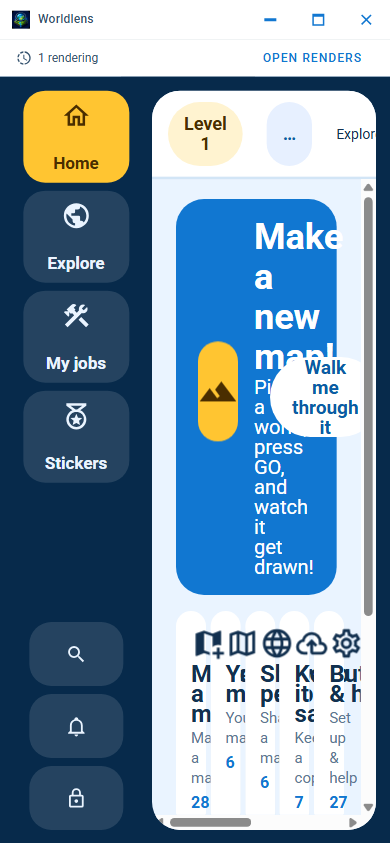
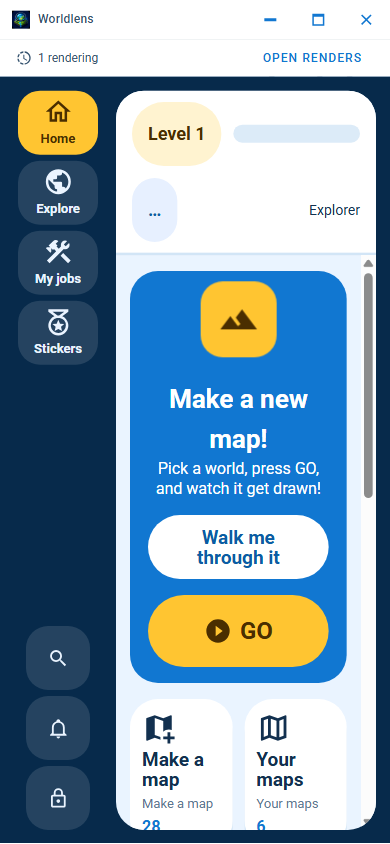
Make Kid Mode survive a phone-width window
Kid Home at 390x844 fell apart, and the picture of it going onto the README is
what made anybody look. The headline was cut off mid-word, the child's name
truncated to "Explor", the five catalogue lands crushed to roughly one character
wide each, the walkthrough button sat on top of the hero text, and the content
overflowed into a horizontal scrollbar.

Three fixed-size pieces that had never been asked to give up space, none of them
ever checked below desktop width:

  - the rail was a flat 124px at every width, which on a 390px window is a third
    of the screen before anything else gets a say;
  - the lands were `repeat(5, minmax(0, 1fr))`, so five columns shared whatever
    the rail left and each label collapsed to a letter;
  - the hero was one flex row, and squeezing its copy toward zero let the `h1`
    overflow its own box, because a long word does not break by default - that
    overflow is where the horizontal scrollbar came from;
  - `.wl-kid__name` had no CSS rule at all, so the name simply ran past the pane's
    clip edge.

The fix reuses the grown-up shell's own 860px breakpoint rather than inventing a
number: the rail narrows to 88px, the hero stacks into a column, the lands drop to
two columns, the panels collapse to one, and every label gets
`overflow-wrap: anywhere` with `overflow-x: hidden` behind it as a backstop.
Nothing goes below Kid Mode's 64px touch-target floor - the whole point of the
[…]

diff --git a/design/packages/ui/src/kid/kidNarrowWidth.test.ts b/design/packages/ui/src/kid/kidNarrowWidth.test.ts
@@ -1,0 +1,168 @@
+/**
+ * `docs/screenshots/kid-home-390.png` (Kid Home at 390 CSS px, the same compact-phone width the
+ * redesigned adult shell already proves itself at) caught Kid Mode falling apart at a width the
+ * project's own contract requires it to survive: the hero headline clipped mid-word, the child's
+ * own name in the status header truncated to "Explor", the five catalogue "lands" crushed to
+ * roughly one character wide each, the "Walk me through it" button overlapping the hero text, and
+ * a horizontal scrollbar on a body this project's own rule says must never scroll sideways.
+ *
+ * The real cause is layout, not markup or data - three fixed-size things (`KidRail.vue`'s 124px
+ * rail, `KidHome.vue`'s five-column lands grid and single-row hero, `KidShell.vue`'s 240px XP bar)
+ * that never gave up space as the window narrowed, each one degrading gracefully at every width a
+ * unit test can render but only *appearing* to, because jsdom has no layout engine: it never
+ * computes a `minmax(0, 1fr)` grid track's real pixel width, never wraps a flex row, and never
+ * clips overflow the way a browser paints one. A `getComputedStyle` assertion here would report
+ * "PASS" on every one of these components in their pre-fix, actually-broken state - which is
+ * exactly why this defect shipped past a large existing suite and was only caught by a real
+ * Chromium screenshot (`design/packages/app/test/screenshots.spec.ts`'s own "Kid Home, compact
+ * phone viewport" capture).
+ *
+ * So this file checks the fix the only way jsdom can: against the components' own source, for the
+ * `@media (max-width: 860px)` rules that make each fixed-size thing give up space below that
+ * width - the same 860px measure `HomeCatalogues.vue`'s own hero/grid breakpoint already uses for
+ * the adult shell, so a reader who wants "why 860" has one answer in one place rather than three
+ * components each picking their own number. It is deliberately not a computed-style assertion:
+ * that would prove the rule text exists (which regex proves just as well) without proving the fix
+ * works, and would invite exactly the same false confidence that let the original defect through.
+ * The real proof that the layout itself is fixed is the re-captured `kid-home-390.png` this
+ * project's screenshot harness produces from a real browser - this file is the regression guard
+ * that stops the *rules themselves* from being deleted or renamed out from under that proof.
+ */
+import { readFileSync } from "node:fs";
+import { fileURLToPath } from "node:url";
+import { describe, expect, it } from "vitest";
+
+function source(file: string): string {
+    return readFileSync(fileURLToPath(new URL(file, import.meta.url)), "utf8");
+}
+
+/** Pulls the first `@media (max-width: 860px) { ... }` block's body out of a component's
+ * `<style scoped>` source, matching balanced braces one level deep - the narrow-width rules
+ * below always nest ordinary single-level selector rules, never another at-rule. */
+function narrowBlock(file: string): string {
+    const text = source(file);
+    const start = text.indexOf("@media (max-width: 860px)");
+    expect(start, `${file} must declare an @media (max-width: 860px) narrow-width block`).toBeGreaterThanOrEqual(0);
+    const openBrace = text.indexOf("{", start);
+    let depth = 0;
+    let end = openBrace;
+    for (let i = openBrace; i < text.length; i += 1) {
+        if (text[i] === "{") depth += 1;
+        else if (text[i] === "}") {
+            depth -= 1;
+            if (depth === 0) {
+                end = i;
+                break;
+            }
+        }
+    }
+    return text.slice(openBrace + 1, end);
+}
+
+describe("KidHome.vue's narrow-width reflow", () => {
+    const block = narrowBlock("./KidHome.vue");
+
+    it("drops the hero from a one-row layout to a stacked column, so the headline gets the hero's full width to wrap in", () => {
+        expect(block).toMatch(/\.wl-kid-home__hero\s*\{[^}]*flex-direction:\s*column/);
+    });
+
+    it("drops the five-column lands grid to two columns, so a land's label gets a real column to sit in rather than a sliver", () => {
+        expect(block).toMatch(/\.wl-kid-home__lands\s*\{[^}]*grid-template-columns:\s*repeat\(2,\s*minmax\(0,\s*1fr\)\)/);
+    });
+
+    it("collapses the two-panel split to one column, for the same reason the lands grid does", () => {
+        expect(block).toMatch(/\.wl-kid-home__split\s*\{[^}]*grid-template-columns:\s*1fr/);
+    });
+
+    it("never shrinks the GO button below Kid Mode's own 64px touch-target floor", () => {
+        const match = block.match(/\.wl-kid-home__go\s*\{([^}]*)\}/);
+        expect(match, "narrow-width block must still style .wl-kid-home__go").not.toBeNull();
+        const minHeight = (match![1] ?? "").match(/min-height:\s*(\d+)px/);
+        expect(minHeight, ".wl-kid-home__go must keep an explicit min-height in the narrow block").not.toBeNull();
+        expect(Number(minHeight![1])).toBeGreaterThanOrEqual(64);
+    });
+});
+
+describe("every crushable label in KidHome.vue wraps at word/character boundaries instead of overflowing its box", () => {
+    const text = source("./KidHome.vue");
+
+    // Each of these is the exact failure mode the screenshot caught: a bold label in a narrow
+    // flex/grid cell that the default `overflow-wrap: normal` lets overflow past its own box
+    // rather than wrap - which is what turned the hero headline into a horizontal-scrollbar
+    // defect and (whatever Chromium's precise fallback line-breaking did to the lands grid at
+    // near-zero column widths) is what a real column-width fix and an explicit wrap policy
+    // both need to hold, belt and braces.
+    const mustWrap: readonly [string, RegExp][] = [
+        ["hero headline", /\.wl-kid-home__hero-copy h1\s*\{[^}]*overflow-wrap:\s*anywhere/],
+        ["hero blurb", /\.wl-kid-home__hero-copy p\s*\{[^}]*overflow-wrap:\s*anywhere/],
+        ["land label", /\.wl-kid-home__land strong\s*\{[^}]*overflow-wrap:\s*anywhere/],
+        ["land subtitle", /\.wl-kid-home__land em\s*\{[^}]*overflow-wrap:\s*anywhere/],
+    ];
+
+    for (const [label, pattern] of mustWrap) {
+        it(`the ${label} declares overflow-wrap: anywhere`, () => {
+            expect(text).toMatch(pattern);
+        });
+    }
+});
+
+describe("KidHome.vue never lets its own scroll region go sideways", () => {
+    it("declares overflow-x: hidden beside its vertical scroll, so an overflow this file cannot yet anticipate cannot become a horizontal scrollbar", () => {
+        const text = source("./KidHome.vue");
+        const rule = text.match(/\.wl-kid-home\s*\{([^}]*)\}/);
+        expect(rule, ".wl-kid-home's own rule must exist").not.toBeNull();
+        expect(rule![1]).toMatch(/overflow-x:\s*hidden/);
+    });
+});
+
+describe("KidRail.vue's narrow-width shrink", () => {
+    const block = narrowBlock("./KidRail.vue");
+
+    it("shrinks the rail's own column width below its fixed 124px default", () => {
+        const match = block.match(/\.wl-kid-rail\s*\{([^}]*)\}/);
+        expect(match, "narrow-width block must style .wl-kid-rail itself").not.toBeNull();
+        const width = (match![1] ?? "").match(/width:\s*(\d+)px/);
+        expect(width, ".wl-kid-rail must set an explicit narrower width").not.toBeNull();
+        expect(Number(width![1])).toBeLessThan(124);
+    });
+
+    it("never shrinks a rail button below the 64px --wl-kid-target-min floor", () => {
+        // Both selectors restate their own `min-height` inside this narrow block (each
+        // also shrinks its width and/or type scale here), so the floor is checked against
+        // the rule that is actually active at narrow widths, not inferred from a base rule
+        // a media query could shadow.
+        for (const selector of [".wl-kid-rail__big", ".wl-kid-rail__small"]) {
+            const escaped = selector.replace(/[.[\]]/g, "\\$&");
+            const rule = new RegExp(`${escaped}\\s*\\{([^}]*)\\}`).exec(block);
+            expect(rule, `${selector} must be styled in the narrow-width block`).not.toBeNull();
+            const body = rule![1] ?? "";
+            const usesFloorVariable = /min-height:\s*var\(--wl-kid-target-min\)/.test(body);
+            const explicitMinHeight = body.match(/min-height:\s*(\d+)px/);
+            const meetsFloor = usesFloorVariable || (explicitMinHeight !== null && Number(explicitMinHeight[1]) >= 64);
+            expect(meetsFloor, `${selector} must keep min-height at or above the 64px floor`).toBe(true);
+        }
+    });
+});
+
+describe("KidShell.vue's status header never clips the child's own name", () => {
+    const text = source("./KidShell.vue");
+
+    it("lets the header wrap onto a second line instead of clipping when its children run out of room", () => {
+        const rule = text.match(/\.wl-kid__status\s*\{([^}]*)\}/);
+        expect(rule, ".wl-kid__status's own rule must exist").not.toBeNull();
+        expect(rule![1]).toMatch(/flex-wrap:\s*wrap/);
+    });
+
+    it("lets the XP bar shrink below its original 240px instead of forcing the row wider than the pane", () => {
+        const rule = text.match(/\.wl-kid__xp\s*\{([^}]*)\}/);
+        expect(rule, ".wl-kid__xp's own rule must exist").not.toBeNull();
+        expect(rule![1]).toMatch(/flex:\s*1\s+1\s+\d+px/);
+        expect(rule![1]).not.toMatch(/^\s*width:\s*240px/m);
+    });
+
+    it("gives .wl-kid__name a rule of its own that can actually shrink, rather than leaving it a bare, unconstrained span", () => {
+        const rule = text.match(/\.wl-kid__name\s*\{([^}]*)\}/);
+        expect(rule, ".wl-kid__name must have a CSS rule - it had none at all before this fix").not.toBeNull();
+        expect(rule![1]).toMatch(/min-width:\s*0/);
+    });
+});

diff --git a/design/packages/ui/src/kid/KidHome.vue b/design/packages/ui/src/kid/KidHome.vue
@@ -155,30 +155,82 @@ function rowLabel(row: { label: string; renderId: string }): string {
 </template>
 
 <style scoped>
-.wl-kid-home { padding: 20px 24px 28px; overflow: auto; }
+/*
+ * `overflow-x: hidden` alongside the existing vertical scroll is a deliberate backstop, not
+ * a change of intent: this project's own rule is that the body - and every scrolling
+ * container standing in for it - never scrolls sideways. Before the narrow-width rules below
+ * existed, the hero's headline could overflow its own flex slot (see `.wl-kid-home__hero`'s
+ * own comment), and because this element scrolled with a bare `overflow: auto`, that overflow
+ * surfaced as exactly the horizontal scrollbar the rule forbids. The reflow rules make that
+ * overflow stop happening in the first place; this line is what keeps it from coming back.
+ */
+.wl-kid-home { padding: 20px 24px 28px; overflow-y: auto; overflow-x: hidden; }
 .wl-kid-home__hero { display: flex; align-items: center; gap: 16px; padding: 18px 22px; border-radius: var(--wl-kid-radius-lg); background: rgb(var(--v-theme-primary)); color: rgb(var(--v-theme-on-primary)); }
-.wl-kid-home__mascot { width: 100px; height: 100px; display: grid; place-items: center; border-radius: var(--wl-kid-radius-md); background: rgb(var(--v-theme-tertiary)); color: rgb(var(--v-theme-on-tertiary)); }
+.wl-kid-home__mascot { width: 100px; height: 100px; flex: 0 0 auto; display: grid; place-items: center; border-radius: var(--wl-kid-radius-md); background: rgb(var(--v-theme-tertiary)); color: rgb(var(--v-theme-on-tertiary)); }
 @media (prefers-reduced-motion: no-preference) {
     .wl-kid-home__mascot { animation: wl-kid-bob 2.6s ease-in-out infinite; }
     @keyframes wl-kid-bob { 0%, 100% { transform: translateY(0); } 50% { transform: translateY(-7px); } }
 }
 .wl-kid-home__hero-copy { flex: 1; min-width: 0; }
-.wl-kid-home__hero-copy h1 { margin: 0; font-size: 36px; font-weight: 800; }
-.wl-kid-home__hero-copy p { margin: 0; font-size: 20px; }
+.wl-kid-home__hero-copy h1 { margin: 0; font-size: 36px; font-weight: 800; overflow-wrap: anywhere; }
+.wl-kid-home__hero-copy p { margin: 0; font-size: 20px; overflow-wrap: anywhere; }
 .wl-kid-home__go,
-.wl-kid-home__secondary { min-height: var(--wl-kid-target-min); border: 0; border-radius: var(--wl-kid-radius-full); font: inherit; font-weight: 800; cursor: pointer; display: inline-flex; align-items: center; justify-content: center; gap: 8px; }
+.wl-kid-home__secondary { min-height: var(--wl-kid-target-min); border: 0; border-radius: var(--wl-kid-radius-full); font: inherit; font-weight: 800; cursor: pointer; display: inline-flex; align-items: center; justify-content: center; gap: 8px; flex: 0 0 auto; }
 .wl-kid-home__go { min-height: 82px; padding: 0 34px; font-size: 30px; background: rgb(var(--v-theme-tertiary)); color: rgb(var(--v-theme-on-tertiary)); }
 .wl-kid-home__secondary { padding: 0 22px; font-size: 19px; background: rgb(var(--v-theme-surface-container-lowest)); color: rgb(var(--v-theme-secondary)); }
 .wl-kid-home__lands { display: grid; grid-template-columns: repeat(5, minmax(0, 1fr)); gap: 12px; margin-top: 16px; }
 .wl-kid-home__land { display: flex; flex-direction: column; align-items: flex-start; gap: 4px; min-height: 168px; padding: 15px; border: 0; border-radius: var(--wl-kid-radius-lg); background: rgb(var(--v-theme-surface-container-lowest)); box-shadow: var(--wl-kid-press); font: inherit; text-align: left; cursor: pointer; }
-.wl-kid-home__land strong { font-size: 24px; font-weight: 800; }
-.wl-kid-home__land em { font-style: normal; font-size: 15px; color: rgb(var(--v-theme-outline)); }
+.wl-kid-home__land strong { font-size: 24px; font-weight: 800; overflow-wrap: anywhere; }
+.wl-kid-home__land em { font-style: normal; font-size: 15px; color: rgb(var(--v-theme-outline)); overflow-wrap: anywhere; }
 .wl-kid-home__count { font-size: 16px; font-weight: 800; color: rgb(var(--v-theme-primary)); }
 .wl-kid-home__split { display: grid; grid-template-columns: 1.5fr 1fr; gap: 14px; margin-top: 16px; }
-.wl-kid-home__panel { padding: 16px 18px; border-radius: var(--wl-kid-radius-lg); background: rgb(var(--v-theme-surface-container-lowest)); box-shadow: var(--wl-kid-press); }
-.wl-kid-home__panel h2 { margin: 0 0 11px; font-size: 24px; font-weight: 800; }
+.wl-kid-home__panel { padding: 16px 18px; border-radius: var(--wl-kid-radius-lg); background: rgb(var(--v-theme-surface-container-lowest)); box-shadow: var(--wl-kid-press); min-width: 0; }
+.wl-kid-home__panel h2 { margin: 0 0 11px; font-size: 24px; font-weight: 800; overflow-wrap: anywhere; }
 .wl-kid-home__row { width: 100%; min-height: var(--wl-kid-target-min); display: flex; align-items: center; gap: 12px; margin-bottom: 9px; padding: 11px 13px; border: 0; border-radius: var(--wl-kid-radius-md); background: rgb(var(--v-theme-surface-container-high)); font: inherit; text-align: left; cursor: pointer; }
-.wl-kid-home__row strong { font-size: 21px; font-weight: 800; }
-.wl-kid-home__row em { font-style: normal; font-size: 15px; color: rgb(var(--v-theme-outline)); }
+.wl-kid-home__row strong { font-size: 21px; font-weight: 800; overflow-wrap: anywhere; }
+.wl-kid-home__row em { font-style: normal; font-size: 15px; color: rgb(var(--v-theme-outline)); overflow-wrap: anywhere; }
 .wl-kid-home__meta { margin-left: auto; font-family: var(--wl-kid-mono); font-size: 14px; color: rgb(var(--v-theme-outline)); }
+
+/*
+ * Narrow-width reflow, at the same 860px measure `HomeCatalogues.vue`'s own hero/grid
+ * breakpoint already uses for the adult shell's Home (`.wl-hero`, `.wl-home__grid`) - the
+ * width below which two things sharing a row stop being a readable layout and start being a
+ * crushed one, this file's own version of it just as real: `docs/screenshots/kid-home-390.png`
+ * caught the fixed 5-column `.wl-kid-home__lands` grid crushing every catalogue label
+ * ("Make a map", "Buttons & help", ...) into a stack of unreadable fragments, because
+ * `minmax(0, 1fr)` columns are free to shrink far below a 24px bold word's own min-content
+ * width, and caught the one-row `.wl-kid-home__hero` (mascot + copy + two buttons, all in a
+ * single flex line) squeezing `.wl-kid-home__hero-copy` toward zero width while its
+ * fixed-size siblings kept theirs, which let the headline overflow past its own box (the
+ * default `overflow-wrap: normal` lets a word overflow rather than break) straight into the
+ * "Walk me through it" button beside it - and because `.wl-kid-home` scrolls with `overflow:
+ * auto`, that overflowing headline is exactly what produced the horizontal scrollbar this
+ * project's own rule forbids.
+ *
+ * The fix mirrors the adult shell's own answer rather than inventing a new one: the hero
+ * drops to a single column, exactly as `.wl-hero` does at this width, so
+ * `.wl-kid-home__hero-copy` gets the hero's full inline size to wrap its words in instead of
+ * a slice of a shared row; the lands grid drops from five columns to two, exactly as
+ * `.wl-home__grid` drops from two to one, so each land gets a column wide enough to hold its
+ * label; and the two-panel split collapses to one column for the same reason. Every touch
+ * target below keeps or exceeds `--wl-kid-target-min` (64px) - this block only ever removes
+ * space between or around targets, never shrinks one below the floor kid mode exists to
+ * raise.
+ */
+@media (max-width: 860px) {
+    .wl-kid-home { padding: 16px 14px 20px; }
+    .wl-kid-home__hero { flex-direction: column; align-items: stretch; text-align: center; padding: 16px 18px; }
+    .wl-kid-home__mascot { width: 76px; height: 76px; margin: 0 auto; }
+    .wl-kid-home__hero-copy { text-align: center; }
+    .wl-kid-home__hero-copy h1 { font-size: 26px; }
+    .wl-kid-home__hero-copy p { font-size: 16px; }
+    .wl-kid-home__go,
+    .wl-kid-home__secondary { width: 100%; }
+    .wl-kid-home__go { min-height: 72px; font-size: 24px; padding: 0 20px; }
+    .wl-kid-home__lands { grid-template-columns: repeat(2, minmax(0, 1fr)); }
+    .wl-kid-home__land { min-height: 132px; padding: 12px; }
+    .wl-kid-home__land strong { font-size: 19px; }
+    .wl-kid-home__land em { font-size: 13px; }
+    .wl-kid-home__split { grid-template-columns: 1fr; }
+}
 </style>

diff --git a/design/packages/site/index.html b/design/packages/site/index.html
@@ -2036,7 +2036,7 @@ class Component extends DCLogic {
       // flag defaults to true — so a gallery with none of it was showing visitors a screen
       // almost nobody sees first. These eight are new entries, not replacements.
       { cat:"Kid Mode", src:"assets/shot-kid-home.png", title:"Kid Mode home", caption:"The screen a fresh install actually opens on: a GO hero card, five picture-first catalogues, live activity and known maps.", alt:"Kid Mode's home screen with a yellow \"GO\" hero card reading \"Make a new map\", five illustrated catalogue tiles, and panels for current activity and known maps and servers" },
-      { cat:"Kid Mode", src:"assets/shot-kid-home-390.png", title:"Kid Mode at phone width — known defect", caption:"The same Kid Home at 390×844 CSS pixels, where it does not hold: the headline is cut off mid-word, the child's name truncates, the five catalogue tiles crush to about one character each, the walkthrough button overlaps the hero and the content overflows into a horizontal scrollbar. Photographed as it is, because a gallery that drops the screen that looks bad is worth nothing. Being fixed.", alt:"Kid Mode's home screen at a 390 by 844 pixel phone viewport, broken: the hero headline clipped mid-word at the right edge, the child's name cut to Explor, the five catalogue tiles squeezed to roughly one character wide each and a horizontal scrollbar along the bottom" },
+      { cat:"Kid Mode", src:"assets/shot-kid-home-390.png", title:"Kid Mode at phone width", caption:"The same Kid Home at 390×844 CSS pixels. The rail narrows, the hero stacks so the headline wraps whole, and the five catalogue lands reflow to two readable columns keeping their icons, labels and counts — at the same 860px breakpoint the grown-up shell already uses, and never below Kid Mode's 64px touch-target floor.", alt:"Kid Mode's home screen at a 390 by 844 pixel phone viewport: a narrowed rail with all four destinations still labelled, the hero stacked into a column with the headline wrapped whole and the walkthrough and GO buttons full width below it, and the catalogue lands in two readable columns with their icons, names and counts intact" },
       { cat:"Kid Mode", src:"assets/shot-kid-rail.png", title:"Kid Mode's rail", caption:"Home, Explore, My jobs and Stickers as big picture-first destinations, with search, notifications and the grown-up gate as footer actions.", alt:"Kid Mode's narrow rail cropped to its four illustrated destination buttons above search, notification and lock footer icons" },
       { cat:"Kid Mode", src:"assets/shot-kid-catalogue.png", title:"A Kid Mode catalogue", caption:"One of Kid Mode's five catalogues, opened as a picture-first \"land\": every feature as its own illustrated row, with the same anchored regex builder every catalogue in this application carries.", alt:"The \"Make a map\" catalogue in Kid Mode, listing features such as \"Build room\", \"Five questions\" and \"Bedrock worlds\" as rows with icons and short blurbs, grouped under headings" },
       { cat:"Kid Mode", src:"assets/shot-kid-job-strip.png", title:"Kid Mode's Work view", caption:"The same tab strip, groups, pinning and overflow as Adult Mode's Work destination, re-hosted rather than reimplemented, wearing Kid Mode's own labels.", alt:"Kid Mode's Work view showing the shared tab strip with a \"Rendering\" group containing two tabs" },

diff --git a/design/packages/ui/src/kid/KidShell.vue b/design/packages/ui/src/kid/KidShell.vue
@@ -390,6 +390,19 @@ defineExpose({ ensureJob, revealJob, award });
 }
 .wl-kid__status {
     display: flex;
+    /*
+     * `docs/screenshots/kid-home-390.png` caught the child's own name truncated to "Explor":
+     * this row's children (the level pill, the fixed-width XP bar, the running-render chip)
+     * never shrank or wrapped, so at 390px window width their combined size ran past the
+     * room `.wl-kid__pane` has for the whole header - and because `.wl-kid__pane` clips
+     * overflow (see its own comment on why it has to), the name simply ran past that clip
+     * edge instead of reflowing. `.wl-kid__xp`'s own fix below gives room back before
+     * anything downstream of it has to; `flex-wrap` here is the backstop for whatever that
+     * still cannot fit - the header wraps the name onto its own line instead of clipping it,
+     * at any width, rather than trusting one fixed-width sibling to always leave enough room.
+     */
+    flex-wrap: wrap;
+    row-gap: 6px;
     align-items: center;
     gap: 12px;
     padding: 11px 16px;
@@ -406,13 +419,26 @@ defineExpose({ ensureJob, revealJob, award });
     font-weight: 800;
     font-size: 18px;
     cursor: pointer;
+    flex: 0 0 auto;
 }
 .wl-kid__level { background: rgb(var(--v-theme-tertiary-container)); color: rgb(var(--v-theme-on-tertiary-container)); }
 .wl-kid__chip--go { background: rgb(var(--v-theme-secondary-container)); color: rgb(var(--v-theme-on-secondary-container)); }
 .wl-kid__chip--problem { background: rgb(var(--v-theme-error-container)); color: rgb(var(--v-theme-on-error-container)); }
-.wl-kid__xp { width: 240px; height: 18px; border-radius: 9px; background: rgb(var(--v-theme-surface-variant)); overflow: hidden; }
+/*
+ * A fixed 240px here was the other half of the "Explor" defect above: this bar alone, plus
+ * the level pill beside it, already exceeded the header's available width at 390px, well
+ * before the child's own name ever got a chance to render. `flex: 1 1 80px` with a cap lets
+ * the bar give room back to its neighbours before the row has to wrap at all; the cap keeps
+ * it from ballooning past its original 240px on a wide window, where nothing needs the room.
+ */
+.wl-kid__xp { flex: 1 1 80px; min-width: 48px; max-width: 240px; height: 18px; border-radius: 9px; background: rgb(var(--v-theme-surface-variant)); overflow: hidden; }
 .wl-kid__xp-fill { height: 100%; background: rgb(var(--v-theme-primary)); }
-.wl-kid__spacer { flex: 1; }
+.wl-kid__spacer { flex: 1 1 0; min-width: 0; }
+/* No rule of its own before this fix - a bare `<span>` with nothing to stop it running past
+   the clip edge `.wl-kid__pane` draws around this whole header. `min-width: 0` lets it
+   actually shrink/wrap instead of forcing the row wider than the pane, and `overflow-wrap`
+   keeps a long bilingual-mode name from doing the same thing on its own. */
+.wl-kid__name { min-width: 0; overflow-wrap: anywhere; }
 /*
  * The one view in this shell that must stay click-through, and for the same reason the adult
  * shell's own `.mb-shell-layer--map` does: the `#map` slot rendered inside it is the identical

diff --git a/design/packages/ui/src/kid/KidRail.vue b/design/packages/ui/src/kid/KidRail.vue
@@ -156,4 +156,21 @@ const unreadLabel = computed(() =>
 }
 .wl-kid-rail__badge--alert { background: rgb(var(--v-theme-error)); color: rgb(var(--v-theme-on-error)); }
 .wl-kid-rail__spacer { flex: 1; }
+
+/*
+ * Narrow-width shrink, at the same 860px measure `KidHome.vue`'s own reflow rules use. This
+ * rail was a fixed 124px at every window width - unlike the adult shell's `AppRail.vue`,
+ * whose fixed 80px it can afford because that rail never has to share a narrow window with a
+ * second column this wide. At 390px this rail alone, plus `.wl-kid`'s own padding and gap
+ * (see `KidShell.vue`), left barely 220px for everything else in the pane - which is exactly
+ * why `KidHome.vue`'s own reflow rules had so little room to work with. Shrinking the rail's
+ * width and type scale here, never below its own `--wl-kid-target-min` (64px) floor, is the
+ * other half of the same fix.
+ */
+@media (max-width: 860px) {
+    .wl-kid-rail { width: 88px; gap: 6px; }
+    .wl-kid-rail__big { width: 80px; min-height: var(--wl-kid-target-min); font-size: 13px; padding: 6px 2px; }
+    .wl-kid-rail__small { width: var(--wl-kid-target-min); min-height: var(--wl-kid-target-min); }
+    .wl-kid-rail__badge { right: 4px; }
+}
 </style>

diff --git a/README.md b/README.md
@@ -497,7 +497,7 @@ Mode's eight captures are here.
 | Kid Mode's own rail                                                                                                                                                                                                                                                                     | A catalogue "land" opened                                                                                                                                                                                                                                           |
 | <img src="docs/screenshots/kid-job-strip.png" alt="Kid Mode's Work view: the same tab strip, seeded groups, pinning, drag reorder and overflow as Adult Mode's own Work destination, re-hosted with Kid Mode's own labels and a 64px-minimum chip floor rather than the adult shell's 44px one" width="420"> | <img src="docs/screenshots/kid-stickers.png" alt="The sticker book on a fresh capture profile: every sticker this build knows about, each naming the real feature it is earned from, none of them won yet - a sticker that has not been won says so plainly, nothing is hidden or teased" width="420"> |
 | Work, re-hosted with Kid Mode's own labels                                                                                                                                                                                                                                              | The sticker book, honestly empty on a fresh profile                                                                                                                                                                                                                 |
-| <img src="docs/screenshots/kid-mode-settings-row.png" alt="The Kid Mode settings row, reached from inside Adult Mode: the Kid Mode / Adult Mode choice, the child's name, the celebration and sound switches, and the label-style choice" width="420"> | <img src="docs/screenshots/kid-home-390.png" alt="Kid Home at 390 by 844 CSS pixels, the phone width the redesigned adult shell proves itself at, and Kid Mode does not: the hero headline is cut off mid-word at the right edge, the child's name is truncated to Explor, the five catalogue lands are crushed to roughly one character each, the walkthrough button overlaps the hero text, and the content overflows into a horizontal scrollbar. This is a known defect being fixed, photographed as it is rather than left out of the gallery" width="240"> |
+| <img src="docs/screenshots/kid-mode-settings-row.png" alt="The Kid Mode settings row, reached from inside Adult Mode: the Kid Mode / Adult Mode choice, the child's name, the celebration and sound switches, and the label-style choice" width="420"> | <img src="docs/screenshots/kid-home-390.png" alt="Kid Home at 390 by 844 CSS pixels, the phone width the redesigned adult shell proves itself at: the rail narrowed to 88 pixels with its four destinations still labelled, the hero stacked into a column so the headline wraps whole rather than clipping, the walkthrough and GO buttons full width and clear of each other, the catalogue lands reflowed to two readable columns keeping their icons, kid labels, shipped names and counts, the child's name intact, and no horizontal scrollbar. This capture is the fix: the same frame a day earlier had the headline cut off mid-word and the lands crushed to a character each" width="240"> |
 | The Kid Mode / Adult Mode settings row                                                                                                                                                                                                                                                  | Kid Home at phone width                                                                                                                                                                                                                                             |
 
 Not captured, and honestly recorded as skipped rather than faked: the grown-up gate with a
